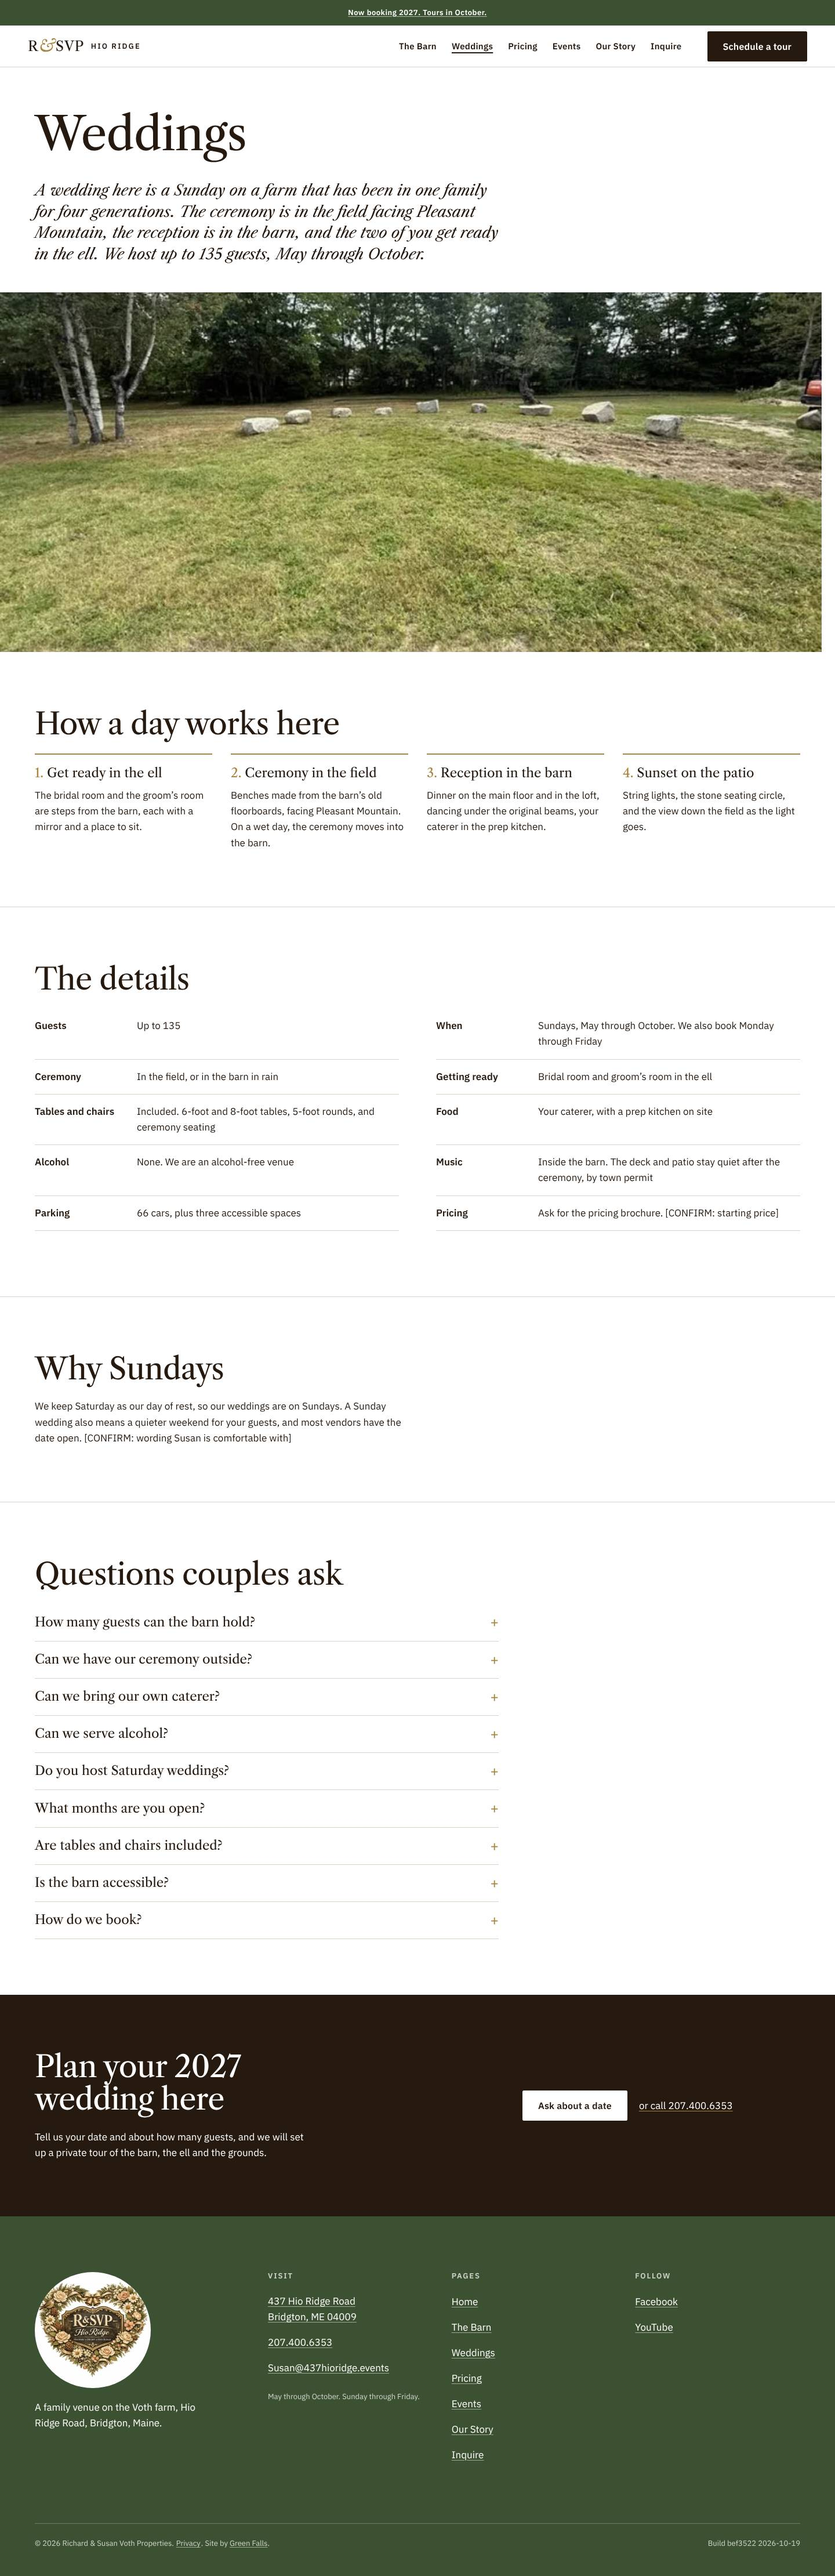
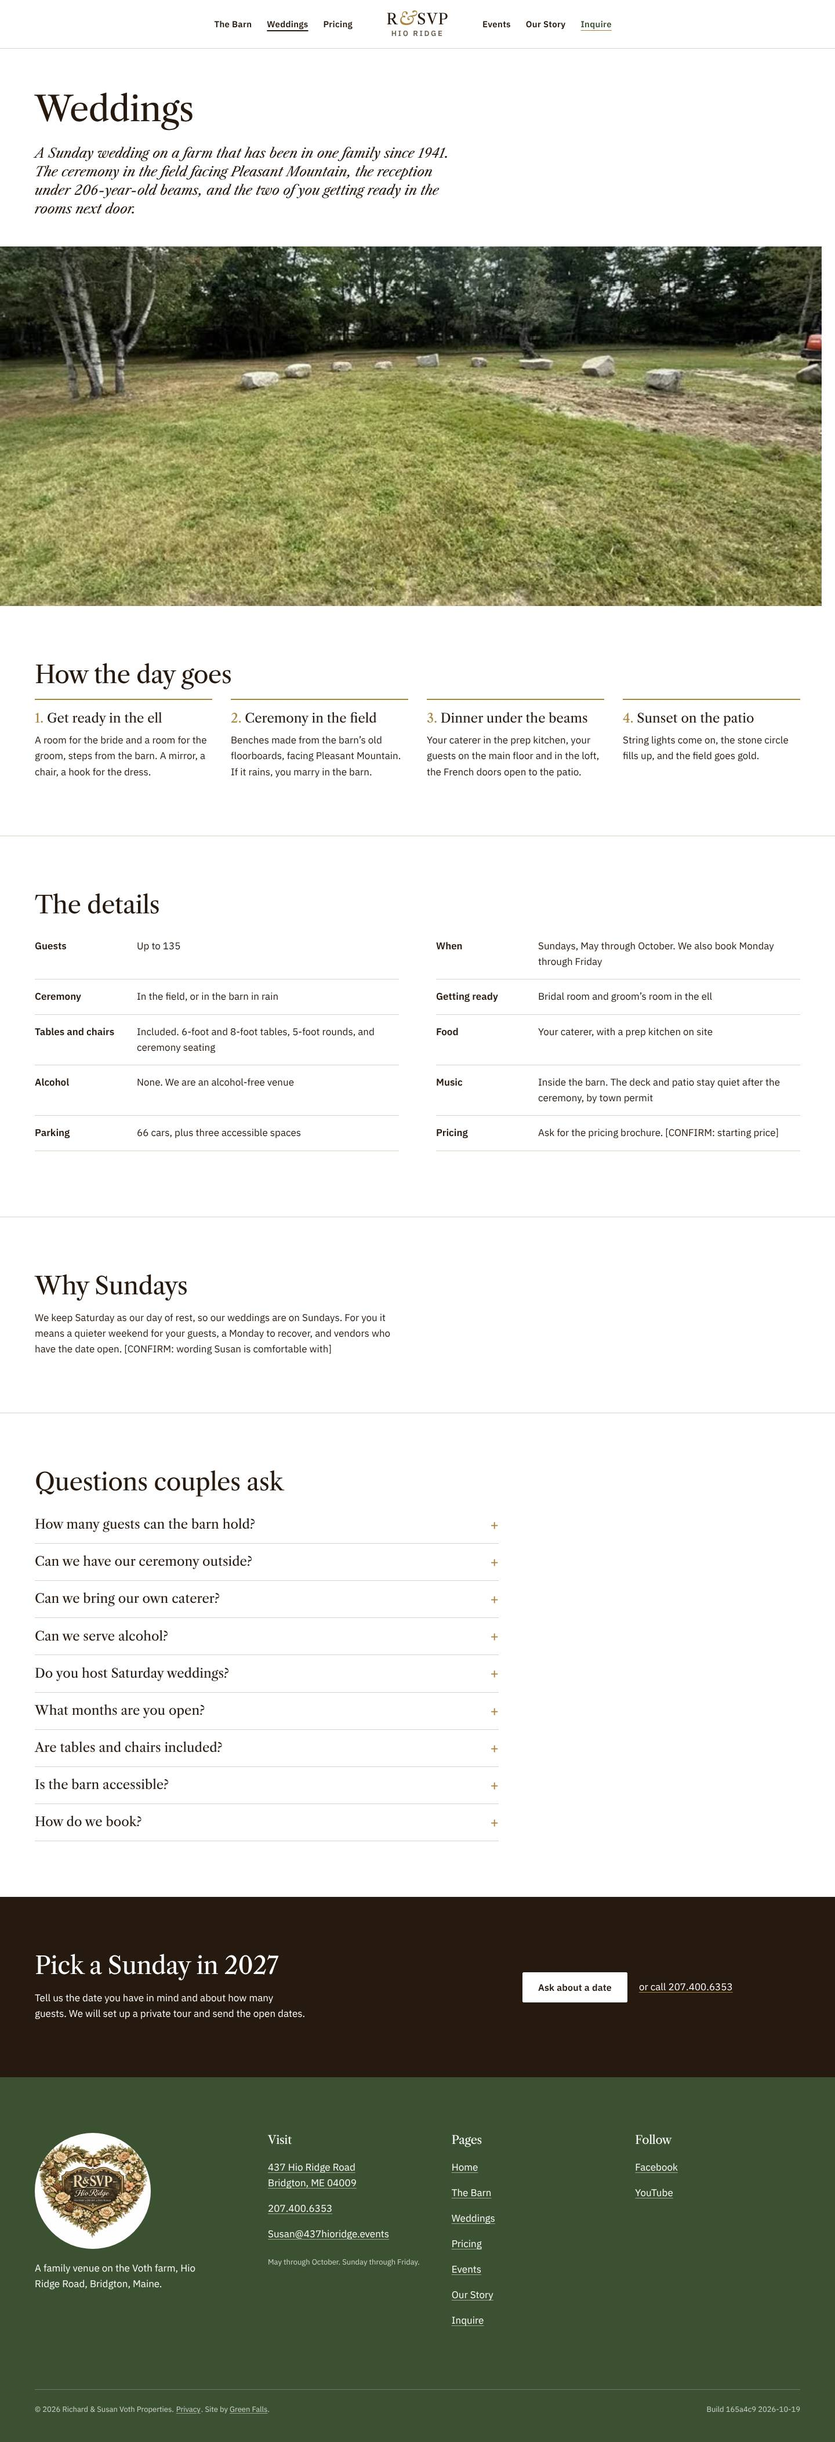
Hio Ridge round 3: centered lockup nav, quiet photo-led hero, copy rewritten to a bride, no eyebrows
Claude-Session: https://claude.ai/code/session_01KJrNE6Z8Km9mVfUpeEh1LP

diff --git a/src/styles.css b/src/styles.css
@@ -16,16 +16,16 @@
   --body: "IBM Plex Sans", "Plex Fallback", Arial, sans-serif;
   --fs-body: 1.0625rem;
   --fs-small: 0.8125rem;
-  --fs-lede: clamp(1.25rem, 1rem + 0.9vw, 1.625rem);
-  --fs-h2: clamp(2rem, 1.3rem + 2.4vw, 3.25rem);
+  --fs-lede: clamp(1.1875rem, 1rem + 0.6vw, 1.4375rem);
+  --fs-h2: clamp(1.75rem, 1.2rem + 1.8vw, 2.625rem);
   --fs-h3: 1.375rem;
-  --fs-h1: clamp(2.5rem, 1.2rem + 4.6vw, 5rem);
+  --fs-h1: clamp(2.25rem, 1.3rem + 3vw, 3.75rem);
   --fs-kicker: 0.8125rem;
   --lh: 1.6;
   --measure: 62ch;
   --control: 52px;
   --tap: 44px;
-  --bar: 72px;
+  --bar: 84px;
   --gutter: 48px;
   --section: 96px;
   --gap: 32px;
@@ -75,8 +75,9 @@ em, .it, .lede, .amp { font-feature-settings: "liga" 0; }
 .skip { position: absolute; left: var(--gutter); top: -100px; z-index: var(--z-skip); background: var(--ink); color: var(--paper); padding: 12px 16px; min-height: var(--control); }
 .skip:focus { top: 8px; }
 
-/* Kicker: one small gold label above a heading, only where it adds a fact the heading does not. */
-.kicker { display: block; font: 600 var(--fs-kicker)/1.3 var(--body); letter-spacing: 0.14em; text-transform: uppercase; color: var(--gold); margin-bottom: 18px; }
+/* No eyebrows and no kickers on this site (Mike, Oct 19). Uppercase tracking lives in the lockup only. */
+.label { display: block; font: 400 var(--fs-body)/1.4 var(--body); color: var(--muted); margin-bottom: 6px; }
+.sec-moss .label { color: rgba(255, 255, 255, 0.8); }
 .lede { font-family: var(--display); font-style: italic; font-size: var(--fs-lede); line-height: 1.4; max-width: 50ch; color: var(--ink); }
 
 /* Photos: the frame shows the photo's own colour until it loads. */
@@ -95,10 +96,10 @@ figure { margin: 0; }
 .more::after { content: " \2192"; }
 
 /* The mark: the ampersand is the device, in Caslon italic, gold. */
-.mark { display: inline-flex; align-items: baseline; gap: 12px; text-decoration: none; min-height: var(--tap); align-items: center; }
-.mark-a { font: 400 1.5rem/1 var(--display); letter-spacing: 0.02em; }
+.mark { display: inline-flex; flex-direction: column; align-items: center; gap: 5px; text-decoration: none; min-height: var(--tap); min-width: 8.5rem; justify-content: center; }
+.mark-a { font: 400 1.625rem/1 var(--display); letter-spacing: 0.04em; }
 .amp { font-style: italic; color: var(--gold); font-size: 1.25em; margin: 0 0.02em; line-height: 0; position: relative; top: 0.04em; }
-.mark-b { font: 600 var(--fs-kicker)/1 var(--body); text-transform: uppercase; letter-spacing: 0.16em; }
+.mark-b { font: 600 0.8125rem/1 var(--body); text-transform: uppercase; letter-spacing: 0.2em; color: var(--muted); }
 
 /* Strip and bar */
 .strip { margin: 0; max-width: none; min-height: var(--tap); display: flex; align-items: center; justify-content: center; font: 600 var(--fs-small)/1.3 var(--body); letter-spacing: 0.04em; background: var(--moss); color: var(--paper); padding: 0 var(--gutter); text-align: center; }
@@ -106,18 +107,14 @@ figure { margin: 0; }
 .strip-empty { display: none; }
 .more, .band-phone, .foot-links a, .foot-col address a, .foot-col p a, .inq-aside p a, .foot-legal a, .proof a { display: inline-flex; align-items: center; min-height: var(--tap); }
 .foot-legal a { margin: -12px 0; min-width: var(--tap); justify-content: center; }
-.bar { position: sticky; top: 0; z-index: var(--z-bar); display: flex; align-items: center; gap: var(--gap); height: var(--bar); padding-inline: var(--gutter); background: var(--paper); border-bottom: 1px solid var(--rule); }
-.home .head { position: absolute; left: 0; right: 0; z-index: var(--z-bar); }
-.home .bar { background: transparent; border-bottom-color: transparent; color: var(--paper); }
-.home .bar:not(.is-scrolled) .amp { color: var(--paper); }
-.home .bar.is-scrolled { position: fixed; left: 0; right: 0; background: var(--paper); border-bottom-color: var(--rule); color: var(--ink); }
-.nav { margin-left: auto; }
+.bar { position: sticky; top: 0; z-index: var(--z-bar); display: grid; grid-template-columns: 1fr auto 1fr; align-items: center; gap: var(--gap); height: var(--bar); padding-inline: var(--gutter); background: var(--paper); border-bottom: 1px solid var(--rule); }
+.nav-l ul { justify-content: flex-end; }
+.nav-r ul { justify-content: flex-start; }
+.nav-r .nav-inq { color: var(--moss); text-decoration: underline; text-decoration-color: var(--gold); text-underline-offset: 0.35em; }
 .nav ul { display: flex; gap: 2px; list-style: none; }
 .nav a { display: inline-flex; align-items: center; min-height: var(--tap); padding: 0 12px; text-decoration: none; font: 600 0.9375rem/1 var(--body); letter-spacing: 0.02em; }
 .nav a:hover, .nav a[aria-current] { text-decoration: underline; text-decoration-thickness: 2px; text-underline-offset: 0.35em; }
-.home .bar:not(.is-scrolled) .nav a { text-decoration-color: var(--paper); }
 .btn-bar { white-space: nowrap; }
-.home .bar:not(.is-scrolled) .btn-bar { background: var(--paper); color: var(--ink); border-color: var(--paper); }
 .menu-btn { display: none; min-height: var(--tap); min-width: 76px; padding: 0 14px; background: none; border: 1px solid currentColor; border-radius: 2px; color: inherit; font: 600 1rem/1 var(--body); cursor: pointer; }
 
 /* Menu: a full-screen dialog on phones. */
@@ -132,18 +129,23 @@ figure { margin: 0; }
 .menu-contact { margin-top: auto; }
 .menu-contact a { text-decoration-color: var(--gold); }
 
-/* Hero (home): a title card. The name small at the top, the line large at the bottom, over the lit barn. */
-.hero { position: relative; min-height: min(100svh, 900px); display: flex; align-items: flex-end; color: var(--paper); isolation: isolate; }
+/* Hero (home): the photograph. One line and one button in the lower-left corner over a scrim that
+   covers only that corner, so the rest of the photo is untouched. Measured in qa/hero-scrim.mjs. */
+.hero { position: relative; aspect-ratio: 16 / 8.5; min-height: 480px; max-height: min(82vh, 820px); display: flex; align-items: flex-end; color: var(--paper); isolation: isolate; overflow: hidden; }
 .hero-pic { position: absolute; inset: 0; z-index: -1; }
 .hero-pic img { height: 100%; }
-.hero::before { content: ""; position: absolute; left: 0; right: 0; top: 0; height: 260px; background: linear-gradient(to bottom, rgba(var(--scrim), 0.72) 0%, rgba(var(--scrim), 0.4) 45%, rgba(var(--scrim), 0) 100%); pointer-events: none; }
-.hero-text { width: 100%; padding: 220px 0 80px; background: linear-gradient(to top, rgba(var(--scrim), 0.96) 0%, rgba(var(--scrim), 0.92) 40%, rgba(var(--scrim), 0.62) 72%, rgba(var(--scrim), 0) 100%); }
-.hero-grid { display: grid; grid-template-columns: 1.4fr 1fr; gap: var(--gap); align-items: end; }
-.hero h1 { max-width: 16ch; font-size: min(var(--fs-h1), 9.5vh); margin-bottom: 0.35em; }
-.hero .lede { color: var(--paper); margin-bottom: 1.6em; max-width: 40ch; }
-.hero-cta { display: flex; flex-wrap: wrap; align-items: center; gap: 16px 24px; }
-.hero-facts { list-style: none; display: grid; gap: 10px; justify-self: end; border-left: 1px solid rgba(255, 255, 255, 0.35); padding-left: 24px; font-size: 0.9375rem; }
-.hero-facts strong { display: block; font: 400 1.5rem/1.2 var(--display); }
+.hero-text { width: 100%; padding: 140px 0 44px; background: linear-gradient(to top, rgba(var(--scrim), 0.94) 0%, rgba(var(--scrim), 0.84) 40%, rgba(var(--scrim), 0.4) 72%, rgba(var(--scrim), 0) 100%); }
+.hero-text .wrap { display: flex; flex-wrap: wrap; align-items: flex-end; justify-content: space-between; gap: 20px 40px; }
+.hero h1 { max-width: 18ch; font-size: clamp(1.75rem, 1.1rem + 2.1vw, 2.875rem); margin: 0; line-height: 1.12; }
+.hero-cta { display: flex; align-items: center; gap: 20px; }
+.hero-cta .it { font-size: 1.0625rem; opacity: 0.92; }
+.facts { display: flex; flex-wrap: wrap; justify-content: space-between; gap: 8px 32px; padding: 18px 0; border-bottom: 1px solid var(--rule); font-size: 0.9375rem; color: var(--muted); }
+.facts li { list-style: none; }
+.facts a { display: inline-flex; align-items: center; min-height: var(--tap); margin: -12px 0; }
+.facts strong { color: var(--ink); font-weight: 600; }
+.photo-band { margin: 0; }
+.photo-band .pic { aspect-ratio: 21 / 9; max-height: 640px; }
+.photo-band .pic img { object-position: 50% 60%; }
 
 /* Page hero (inner pages) */
 .phero { padding-top: calc(var(--section) * 0.75); }
@@ -159,7 +161,6 @@ figure { margin: 0; }
 .sec-linen + .sec { border-top: 0; }
 .sec-moss { background: var(--moss); color: var(--paper); border-top: 0 !important; }
 .sec-moss + .sec { border-top: 0; }
-.sec-moss .kicker { color: var(--paper); opacity: 0.85; }
 .sec-moss a { text-decoration-color: rgba(255, 255, 255, 0.6); }
 .sec-moss .small { color: rgba(255, 255, 255, 0.8); }
 .split { display: grid; grid-template-columns: 1fr 1fr; gap: var(--gap) 72px; align-items: center; }
@@ -170,8 +171,8 @@ figure { margin: 0; }
 .split figure .pic { aspect-ratio: 4 / 3; }
 .split-tall figure .pic { aspect-ratio: 4 / 5; }
 .statement { display: grid; grid-template-columns: 1.1fr 0.9fr; gap: var(--gap) 72px; align-items: center; }
-.statement .amp-big { font: italic 400 clamp(4rem, 3rem + 6vw, 9rem)/0.8 var(--display); color: var(--gold); display: block; margin-bottom: 0.1em; }
-.statement h2 { font-size: clamp(1.75rem, 1.2rem + 2vw, 2.75rem); line-height: 1.2; }
+.statement .amp-big { font: italic 400 clamp(3rem, 2.2rem + 3.5vw, 5.5rem)/0.8 "Libre Caslon Text", Georgia, serif; color: var(--gold); display: block; height: 0.8em; margin-bottom: 0.3em; }
+.statement h2 { font-size: clamp(1.5rem, 1.1rem + 1.4vw, 2.125rem); line-height: 1.25; }
 .paths-list { list-style: none; display: grid; grid-template-columns: repeat(3, 1fr); gap: var(--gap); }
 .paths-list a { display: block; text-decoration: none; }
 .paths-list .pic { aspect-ratio: 4 / 5; margin-bottom: 18px; }
@@ -236,7 +237,7 @@ input[aria-invalid="true"], select[aria-invalid="true"] { border-color: #8A2E1F;
 .foot-grid { display: grid; grid-template-columns: 1.3fr 1fr 1fr 1fr; gap: var(--gap); }
 .foot-logo { width: 200px; border-radius: 50%; background: var(--paper); }
 .foot-brand p { margin-top: 20px; max-width: 30ch; }
-.foot-h { font: 600 var(--fs-kicker)/1 var(--body); text-transform: uppercase; letter-spacing: 0.14em; color: rgba(255, 255, 255, 0.75); margin-bottom: 16px; }
+.foot-h { font: 400 1.25rem/1.2 var(--display); color: var(--paper); margin-bottom: 14px; }
 .foot-links { list-style: none; }
 .foot-links a, .foot-col address a, .foot-col p a { padding: 0; }
 .foot-col address a { min-height: 0; padding: 8px 0; }
@@ -259,29 +260,29 @@ input[aria-invalid="true"], select[aria-invalid="true"] { border-color: #8A2E1F;
 /* Tablet */
 @media (max-width: 64em) {
   :root { --gutter: 32px; }
-  .nav { display: none; }
-  .btn-bar { margin-left: auto; }
-  .menu-btn { display: inline-flex; align-items: center; justify-content: center; }
+  .nav ul { display: none; }
+  .nav-r { display: none; }
+  .btn-bar { display: none; }
+  .menu-btn { display: inline-flex; align-items: center; justify-content: center; justify-self: end; }
   .steps-list, .proof { grid-template-columns: repeat(2, 1fr); }
   .foot-grid { grid-template-columns: 1fr 1fr; }
-  .hero-grid { grid-template-columns: 1fr; }
-  .hero-facts { justify-self: start; grid-template-columns: repeat(3, auto); gap: 24px; border-left: 0; padding-left: 0; border-top: 1px solid rgba(255, 255, 255, 0.35); padding-top: 18px; }
 }
 
 /* Phones: their own layout. */
 @media (max-width: 48em) {
-  :root { --gutter: 20px; --section: 64px; --bar: 60px; --gap: 24px; }
-  .head, .home .head { position: static; }
-  .bar, .home .bar, .home .bar.is-scrolled { position: static; background: var(--paper); color: var(--ink); border-bottom-color: var(--rule); }
-  .home .bar:not(.is-scrolled) .amp { color: var(--gold); }
+  :root { --gutter: 20px; --section: 64px; --bar: 72px; --gap: 24px; }
+  .bar { position: static; grid-template-columns: 1fr auto 1fr; }
   .btn-bar { display: none; }
-  .home .bar:not(.is-scrolled) .nav a { text-decoration-color: var(--gold); }
+  .menu-btn { justify-self: end; }
+  .nav-l { display: block; }
+  .nav-l ul { display: none; }
+  .mark-a { font-size: 1.375rem; }
   body { padding-bottom: calc(var(--control) + env(safe-area-inset-bottom)); }
-  .hero { min-height: min(90svh, 760px); }
-  .hero-text { padding: 140px 0 calc(28px + var(--control)); }
-  .hero h1 { font-size: min(var(--fs-h1), 7.5vh); }
-  .hero-facts { grid-template-columns: 1fr 1fr; gap: 12px 20px; }
-  .hero-facts strong { font-size: 1.25rem; }
+  .hero { aspect-ratio: 4 / 5; min-height: 0; max-height: none; }
+  .hero-text { padding: 110px 0 24px; background: linear-gradient(to top, rgba(var(--scrim), 0.96) 0%, rgba(var(--scrim), 0.9) 45%, rgba(var(--scrim), 0.45) 78%, rgba(var(--scrim), 0) 100%); }
+  .hero h1 { font-size: 1.75rem; }
+  .facts { gap: 6px 20px; font-size: 0.875rem; }
+  .photo-band .pic { aspect-ratio: 4 / 3; }
   .phero { padding-top: 44px; }
   .phero-pic { aspect-ratio: 4 / 3; }
   .split, .split-wide, .statement { grid-template-columns: 1fr; }
@@ -303,7 +304,7 @@ input[aria-invalid="true"], select[aria-invalid="true"] { border-color: #8A2E1F;
   .quick a + a { border-left: 1px solid rgba(255, 255, 255, 0.25); }
 }
 @media (max-width: 24em) {
-  .hero h1 { font-size: 2rem; }
+  .hero h1 { font-size: 1.5rem; }
 }
 
 @media print {

diff --git a/docs/decision-record.md b/docs/decision-record.md
@@ -22,6 +22,17 @@ A running record. Newest entries at the bottom. One entry per decision or pass, 
 - Brief and guardrails: `docs/00-brief.md`. Photo picks: `docs/photo-shortlist.md`.
 - Source: `content/*.json`, `build.mjs`, `src/`. Output: `dist/`. QA: `qa/`.
 
+## Round 3: nav, hero and copy, October 19
+
+Mike: "the text is overpowering the photos and we need much better copy"; "play with a navigation where the logo is centered"; "do eyebrow text audit too. i hate how much AI overuses it."
+- **Nav:** a centered stacked lockup (R&SVP with the gold italic ampersand over HIO RIDGE), three links left (The Barn, Weddings, Pricing), three right (Events, Our Story, Inquire in moss with a gold underline). The bar is paper, above the photo, never over it. The green announcement strip is gone; "Now booking 2027" lives in the facts strip under the hero. On phones: lockup centered, Menu at right.
+- **Hero:** the photograph at 16:8.5 (4:5 on phones), one line in the lower-left ("Your wedding in a barn raised in 1820", 46px max), one paper button, the italic place-and-season line beside it, a scrim that covers only the lower band. Kicker, paragraph, second button and fact column removed from the photo. Facts moved to a hairline strip below. A full-bleed October photo with no text sits mid-page.
+- **Scale:** h1 max 60px (was 80), h2 max 42px (was 52), lede max 23px. The statement ampersand 88px max (was 144).
+- **Eyebrows:** audited and removed: the "What is included" kicker, the "Weddings start at" kicker (now a plain muted line), the tracked-caps footer column labels (now small Caslon headings). The `.kicker` class is deleted so one cannot come back by accident.
+- **Copy:** every page rewritten to a bride, in Susan's voice: "The farm has been ours since 1941. The barn is yours for the day."; "Any day but Saturday."; "Come stand in it. Photos only go so far."; "Pick a Sunday in 2027." Facts unchanged; the `[CONFIRM]` set unchanged.
+- **Bug fixed at the root:** section class names collided with component classes (`.proof`, `.facts`); sections are now prefixed `sec-` by the builder.
+- Set aside: a hairline gold rule under the bar (tried in thought, not built: the lockup's gold ampersand is the one gold element in the bar).
+
 ## Round 2: competitor audit and identity rebuild, October 19
 
 Mike's read of the first build: "very bland. the brand identity is very weak and not appealing to brides." Also: never use image captions; keep in mind the aesthetic brides want on their wedding. The method changed, not the sheet count:

diff --git a/docs/00-brief.md b/docs/00-brief.md
@@ -42,7 +42,7 @@ Mike's quote: the $3,500 package. About 28 hours: a template-based build, Susan'
 
 ## Guardrails (checked every round)
 
-**Rules added by Mike after the first build (Oct 19):** no image captions, anywhere. The site must look like the wedding a bride is picturing, not like the business that hosts it. The identity comes from the client's own logo (walnut sign, cream roses, wreath greenery, gold bells) and name (Caslon's italic ampersand is the device).
+**Rules added by Mike after the first build (Oct 19):** no image captions, anywhere. The site must look like the wedding a bride is picturing, not like the business that hosts it. The identity comes from the client's own logo (walnut sign, cream roses, wreath greenery, gold bells) and name (Caslon's italic ampersand is the device). **No eyebrow or kicker text, ever**: no small tracked-uppercase labels above headings; the only uppercase tracking on the site is "HIO RIDGE" in the lockup. The text never overpowers the photographs: the hero carries one line and one button; the photo does the selling. The navigation is a centered lockup with links either side.
 
 Sector and place cliches, banned unless the record grants an exception: script or handwriting fonts; "rustic chic" eucalyptus and string-light illustrations; a barn icon; a Maine silhouette, lobsters, pine-tree icons, buoys; gold or rose-gold accents; cream or "AI off-white" template backgrounds (paper is pure #FFFFFF, the Generation Maine lesson); a gradient anywhere except a measured scrim over a photo; three-column icon grids; cards with a picture on top; carousels; stat counters; a hamburger-only menu (the word "Menu" in a 44px control: the audience is couples' parents and church groups); more than one solid button in the hero; eyebrows that restate the heading; em dashes; italics; a hand-typed year.
 

diff --git a/docs/client-feedback.md b/docs/client-feedback.md
@@ -32,3 +32,10 @@ Open: the redesign round.
 > also keep in mind the aesthetic brides want on their wedding
 
 Applied: the test for the round is "does this look like the wedding she is picturing, not the business that hosts it". It changed the hero (the lit barn interior, not the facade), the palette (walnut, moss, gold, linen from the logo's roses, greenery and bells), the italic Caslon ledes, the photo-first paths, and the order of the home page (the barn at night and Susan's own line before any facts). What it did not change: no script fonts, no stock, no eucalyptus-and-string-light illustration; the aesthetic comes from the real place lit well.
+
+## Mike Jones, session chat, October 19, after round 2
+
+> getting better. we need a better nav/homepage hero design. the text is overpowering the photos and we need much better copy
+
+Applied (round 3): the nav is a paper bar above the photo, not floating over it. The hero is the photograph at full width with one short line and one button in the lower corner under a light local scrim; the kicker, the italic paragraph, the second button and the fact column came off the photo. Facts moved to a hairline strip under the photo. A full-bleed photo with no text was added mid-page. Display sizes came down one step across the site. Every page's copy was rewritten to a bride, in Susan's voice: shorter lines, one specific per sentence, fewer blocks.
+Open: Mike's read of round 3.
